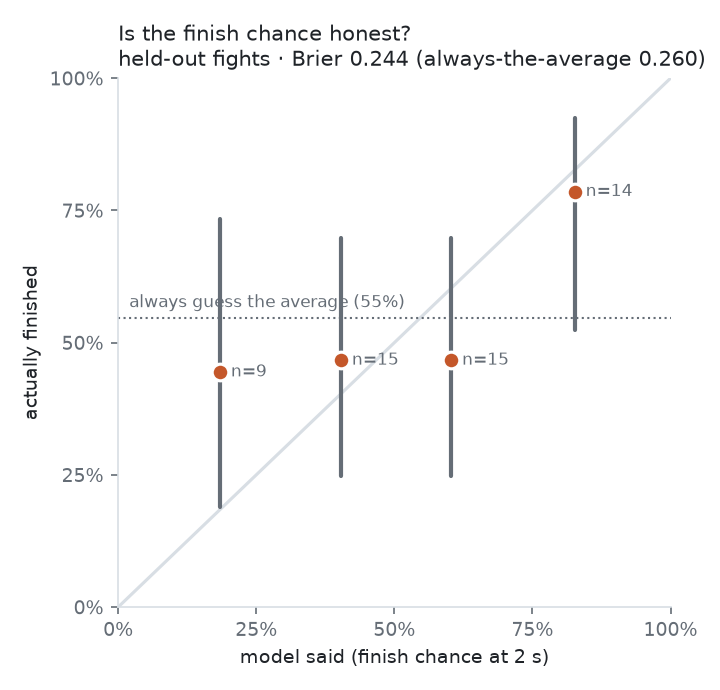
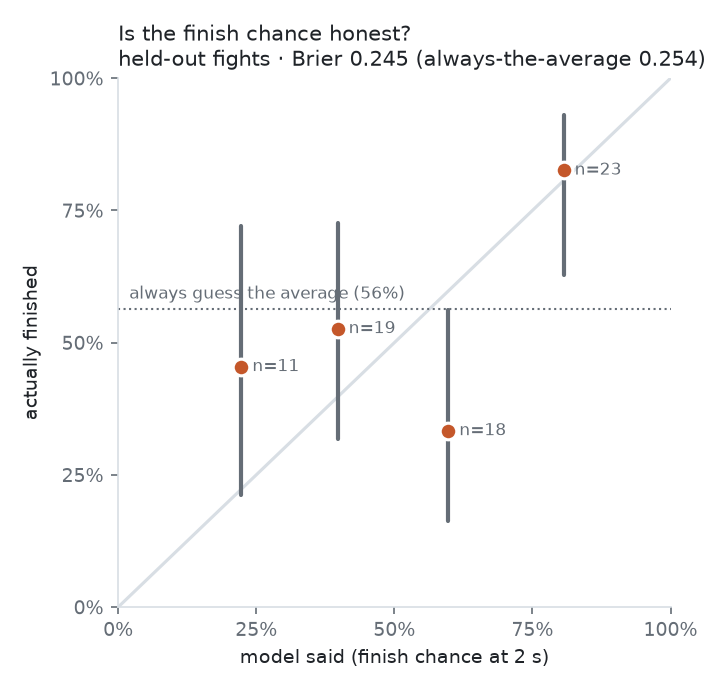
Research: model v0.8 = leaner v0.7c (hooks and chin tucked shrunk to no effect), LOFO Brier 0.245 vs 0.249 on 71 attempts; 6 variants reported (re-attack, time-left, prior width rejected); demo and charts on v0.8

diff --git a/research/model/explore_v08.py b/research/model/explore_v08.py
@@ -1,0 +1,85 @@
+"""v0.8 exploration: principled variants of v0.7c, each scored leave-one-fight-out on the current labels.
+
+    python research/model/explore_v08.py      -> research/model/explore_v08_output.txt (stdout)
+
+Every variant is reported, not just the winner: with ~70 attempts, picking the best of several LOFO scores
+overfits a little. A variant is only worth adopting if it is principled AND not worse; a clear win needs the 95% CI of
+the difference to exclude 0.
+Variants:
+  A  v0.7c (baseline)
+  B  re-attack term on (defender fatigue from earlier attempts in the round, card C15 only)
+  C  leaner: drop the factors the labels can't support yet (both hooks, chin tucked)
+  D  coach priors held tighter (sd 0.5) / E looser (sd 1.0)
+  F  time left in the round as an adjustment (PREREG §5): defenders can stall to the bell
+"""
+import csv
+import math
+
+import numpy as np
+
+import model_v07 as m
+import run_v07_coach as rc
+import state_model as sm
+from run_v03 import boot_diff
+
+
+def run(rows, cards, **kw):
+    saved = (m.USE_REATTACK, rc.COACH_SD, list(m.FEATS))
+    m.USE_REATTACK = kw.get("reattack", False)
+    rc.COACH_SD = kw.get("sd", 0.7)
+    try:
+        return m.lofo(rows, cards)
+    finally:
+        m.USE_REATTACK, rc.COACH_SD = saved[0], saved[1]
+
+
+def main():
+    rc.setup()
+    rows = sm.load()
+    m.D0.update(m.round_d0(rows))
+    cards = list(csv.DictReader(open(m.HERE / "priors_v07.csv", encoding="utf-8")))
+    sm.SQUEEZE, sm.CONSCIOUSNESS = sm.SQUEEZE_V06, sm.CONSCIOUSNESS_V06
+    sm.USE_FATIGUE = False
+    res = {"always the average": sm.lofo_base(rows), "A v0.7c (baseline)": run(rows, cards)}
+    res["B + re-attack term"] = run(rows, cards, reattack=True)
+    # C: leaner model = the dropped factors get a near-zero prior sd (shrunk to no effect)
+    saved_by = dict(m.RIDGE_BY)
+    m.RIDGE_BY.update({"legs_hooks": 0.05, "chin_tucked": 0.05})
+    saved_coach = dict(rc.COACH)
+    for f in ("legs_hooks", "chin_tucked"):
+        rc.COACH.pop(f, None)
+    rc.setup()
+    res["C leaner (no hooks / chin)"] = run(rows, cards)
+    m.RIDGE_BY.clear(); m.RIDGE_BY.update(saved_by); rc.COACH.clear(); rc.COACH.update(saved_coach); rc.setup()
+    res["D coach priors tighter (sd 0.5)"] = run(rows, cards, sd=0.5)
+    res["E coach priors looser (sd 1.0)"] = run(rows, cards, sd=1.0)
+    # F: time left in the round, as a small shift on the log-odds fitted on the labels (one extra coefficient)
+    base = res["A v0.7c (baseline)"]
+    tl = np.array([(300.0 - float(r["attempt_start_s"] or 150)) / 300.0 for _, _, _, r in base])
+    y = np.array([a for a, _, _, _ in base])
+    z = np.array([math.log(p / (1 - p)) for _, p, _, _ in base])
+    fid = np.array([r["fight_id"] for _, _, _, r in base])
+    pf = np.zeros(len(y))
+    for f in np.unique(fid):                  # leave-one-fight-out for the extra coefficient too
+        tr = fid != f
+        g = 0.0
+        for _ in range(50):                   # 1-D Newton, ridge 1
+            p = 1 / (1 + np.exp(-(z[tr] + g * tl[tr])))
+            g += (np.sum((y[tr] - p) * tl[tr]) - g) / (np.sum(p * (1 - p) * tl[tr] ** 2) + 1)
+        pf[~tr] = 1 / (1 + np.exp(-(z[~tr] + g * tl[~tr])))
+    res["F + time left in round (2-s score)"] = [(a, float(pp), s, r) for (a, _, s, r), pp in zip(base, pf)]
+    print(f"{len(rows)} attempts, {len({r['fight_id'] for r in rows})} fights, leave-one-fight-out\n")
+    print(f"{'variant':38s} {'Brier@2s':>9s} {'Brier all-sec':>14s} {'logloss@2s':>11s}")
+    for k, v in res.items():
+        bl, bt, ll = sm.scores(v)
+        print(f"{k:38s} {bl:9.3f} {bt:14.3f} {ll:11.3f}")
+    print()
+    for k in list(res)[2:]:
+        d, ci = boot_diff(res[k], res["A v0.7c (baseline)"])
+        print(f"{k:38s} minus baseline: {d:+.3f}  95% CI [{ci[0]:+.3f}, {ci[1]:+.3f}]")
+    d, ci = boot_diff(res["A v0.7c (baseline)"], res["always the average"])
+    print(f"\nbaseline minus always-the-average: {d:+.3f}  95% CI [{ci[0]:+.3f}, {ci[1]:+.3f}]")
+
+
+if __name__ == "__main__":
+    main()

diff --git a/tools/mvp/demo.py b/tools/mvp/demo.py
@@ -97,8 +97,8 @@ def main():
     ap.add_argument("clip")
     ap.add_argument("--out", default="")
     ap.add_argument("--no-track", action="store_true", help="skip the fighter tracking layer")
-    ap.add_argument("--model", choices=["v06", "v07c"], default="v07c",
-                    help="v07c = current model (v0.7 structure: grip type, body triangle; + coach priors); v06 = previous")
+    ap.add_argument("--model", choices=["v06", "v07c", "v08"], default="v08",
+                    help="v08 = current (lean v0.7 + coach priors); v07c = previous; v06 = older")
     ap.add_argument("--full", action="store_true", help="render the whole video (default: the attempts +- a few seconds)")
     ap.add_argument("--panel-only", action="store_true",
                     help="footage-free output: only the readout panel around the attempts (+ a GIF), shareable")
@@ -113,15 +113,15 @@ def main():
     sys.path.insert(0, str(ROOT / "research/model"))
     import state_model as sm                     # finish model v0.6 (docs/MODEL_SPEC.md)
     train = [r for r in sm.load() if r["fight_id"] != mine[0]["fight_id"]]
-    if a.model == "v07c":                        # v0.7 + coach priors (research/model/run_v07_coach.py)
+    if a.model != "v06":                        # v0.8 = lean v0.7 + coach priors (run_v07_coach.py); v07c = not lean
         import model_v07 as m7
         import run_v07_coach as rc
-        rc.setup(); sm.USE_FATIGUE = False
+        rc.setup(lean=a.model == "v08"); sm.USE_FATIGUE = False
         m7.D0.update(m7.round_d0(sm.load()))
         sm.SQUEEZE, sm.CONSCIOUSNESS = sm.SQUEEZE_V06, sm.CONSCIOUSNESS_V06
         cards = list(csv.DictReader(open(ROOT / "research/model/priors_v07.csv", encoding="utf-8")))
         beta, cov = rc.fit_cov(train, cards)
-        x_at, fat_i, label = m7.x_at, m7.FEATS.index("fatigue"), "v0.7c"
+        x_at, fat_i, label = m7.x_at, m7.FEATS.index("fatigue"), ("v0.8" if a.model == "v08" else "v0.7c")
     else:
         sm.USE_FATIGUE = True
         cards = list(csv.DictReader(open(ROOT / "research/model/priors_v06.csv", encoding="utf-8")))
@@ -141,7 +141,7 @@ def main():
     sys.path.insert(0, str(ROOT / "tools/mvp"))
     import hud as hudmod
     mult = {}                                    # factor -> odds multiplier of the current model (chip colour tiers)
-    if a.model == "v07c":
+    if a.model != "v06":
         mult = {f: math.exp(beta[2 + n]) for n, f in enumerate(m7.FEATS)}
     hud, peak, cur_id = hudmod.Panel(W - PANEL, W, H, mult, model["label"]), 0.0, None
     air_hist = []                                # (t, HP) during the attempt, for the seconds-of-air estimate

diff --git a/research/model/run_v07_coach.py b/research/model/run_v07_coach.py
@@ -41,9 +41,17 @@ def fit_cov(rows, cards):
     return beta, np.linalg.inv((X * (w * p * (1 - p))[:, None]).T @ X + np.diag(P))
 
 
-def setup(coach=True):
-    """Install the coach-prior fit into model_v07 (also used by tools/mvp/demo.py --model v07c)."""
+LEAN_DROP = ("legs_hooks", "chin_tucked")   # v0.8: factors the labels can't support yet are shrunk to no effect
+
+
+def setup(coach=True, lean=True):
+    """Install the coach-prior fit into model_v07 (also used by tools/mvp/demo.py). lean=True is model v0.8
+    (explore_v08.py, 2026-10-28: leaner model, LOFO Brier 0.245 vs 0.249 for v0.7c on 71 attempts)."""
     global use_mu
+    if lean:
+        m.RIDGE_BY.update({f: 0.05 for f in LEAN_DROP})
+        for f in LEAN_DROP:
+            COACH.pop(f, None)
     for i, f in enumerate(m.FEATS):
         MU[2 + i] = math.log(COACH.get(f, 1.0))
     m.fit_cov = fit_cov

diff --git a/research/model/charts.py b/research/model/charts.py
@@ -64,7 +64,7 @@ def main():
     ax.set_yticklabels([e[0] for e in eff], fontsize=9, color=INK)
     style(ax)
     fig.suptitle(f"What moves the odds of a UFC rear-naked choke finishing\n"
-                 f"model v0.7c · {len(rows)} labeled attempts · dot = estimate, line = 80% range",
+                 f"model v0.8 · {len(rows)} labeled attempts · dot = estimate, line = 80% range",
                  fontsize=10, color=INK, x=0.02, ha="left")
     fig.tight_layout()
     fig.savefig(OUT / "effects.png", facecolor="white")

diff --git a/docs/MODEL_SPEC.md b/docs/MODEL_SPEC.md
@@ -441,3 +441,6 @@ For every card: **"Out of 100 of these in the UFC, how many end in a tap or knoc
 - [research/model/detector_events.py](../research/model/detector_events.py): event-level detector check (clip venv).
 - [research/model/diagnose_mvp01.py](../research/model/diagnose_mvp01.py): reproduces the MVP 0.1 numbers.
 - For `tools/mvp/demo.py` (Main): replace `fit`/`finish_prob` and the ramp with `state_model.fit` + `predict(..., sample=False)` (+ `interval` for the band); drive the defender bar with `health_trace` instead of `1 − finish %`; drive the attacker GRIP gauge from the same squeeze effort `G` (`100·e^(−G/12)`); snap to 100% / Air 0 at a finish frame and 0% at an escape; drop the 3-s post-event easing.
+
+## 4g. v0.8 (2026-10-28): leaner v0.7c, chosen on 71 attempts / 42 fights
+[explore_v08.py](../research/model/explore_v08.py) ([output](../research/model/explore_v08_output.txt)) scored six principled variants leave-one-fight-out, and all of them are reported. **v0.8 = v0.7c with "both hooks" and "chin tucked" shrunk to no effect**: the labels can't support them yet, and their coach priors are dropped. Brier 0.245 vs 0.249 for v0.7c (difference −0.004, 95% CI −0.008 to 0.000), and 0.224 vs 0.228 over every second. Rejected: re-attack term (+0.006), time left in the round (+0.007), looser coach priors (+0.002). Honest status: at the 2-s mark, the edge over guessing the average is within noise (−0.006, CI −0.049 to +0.041). The model's value is in following the position as it changes (0.224 vs 0.254 over every second).
